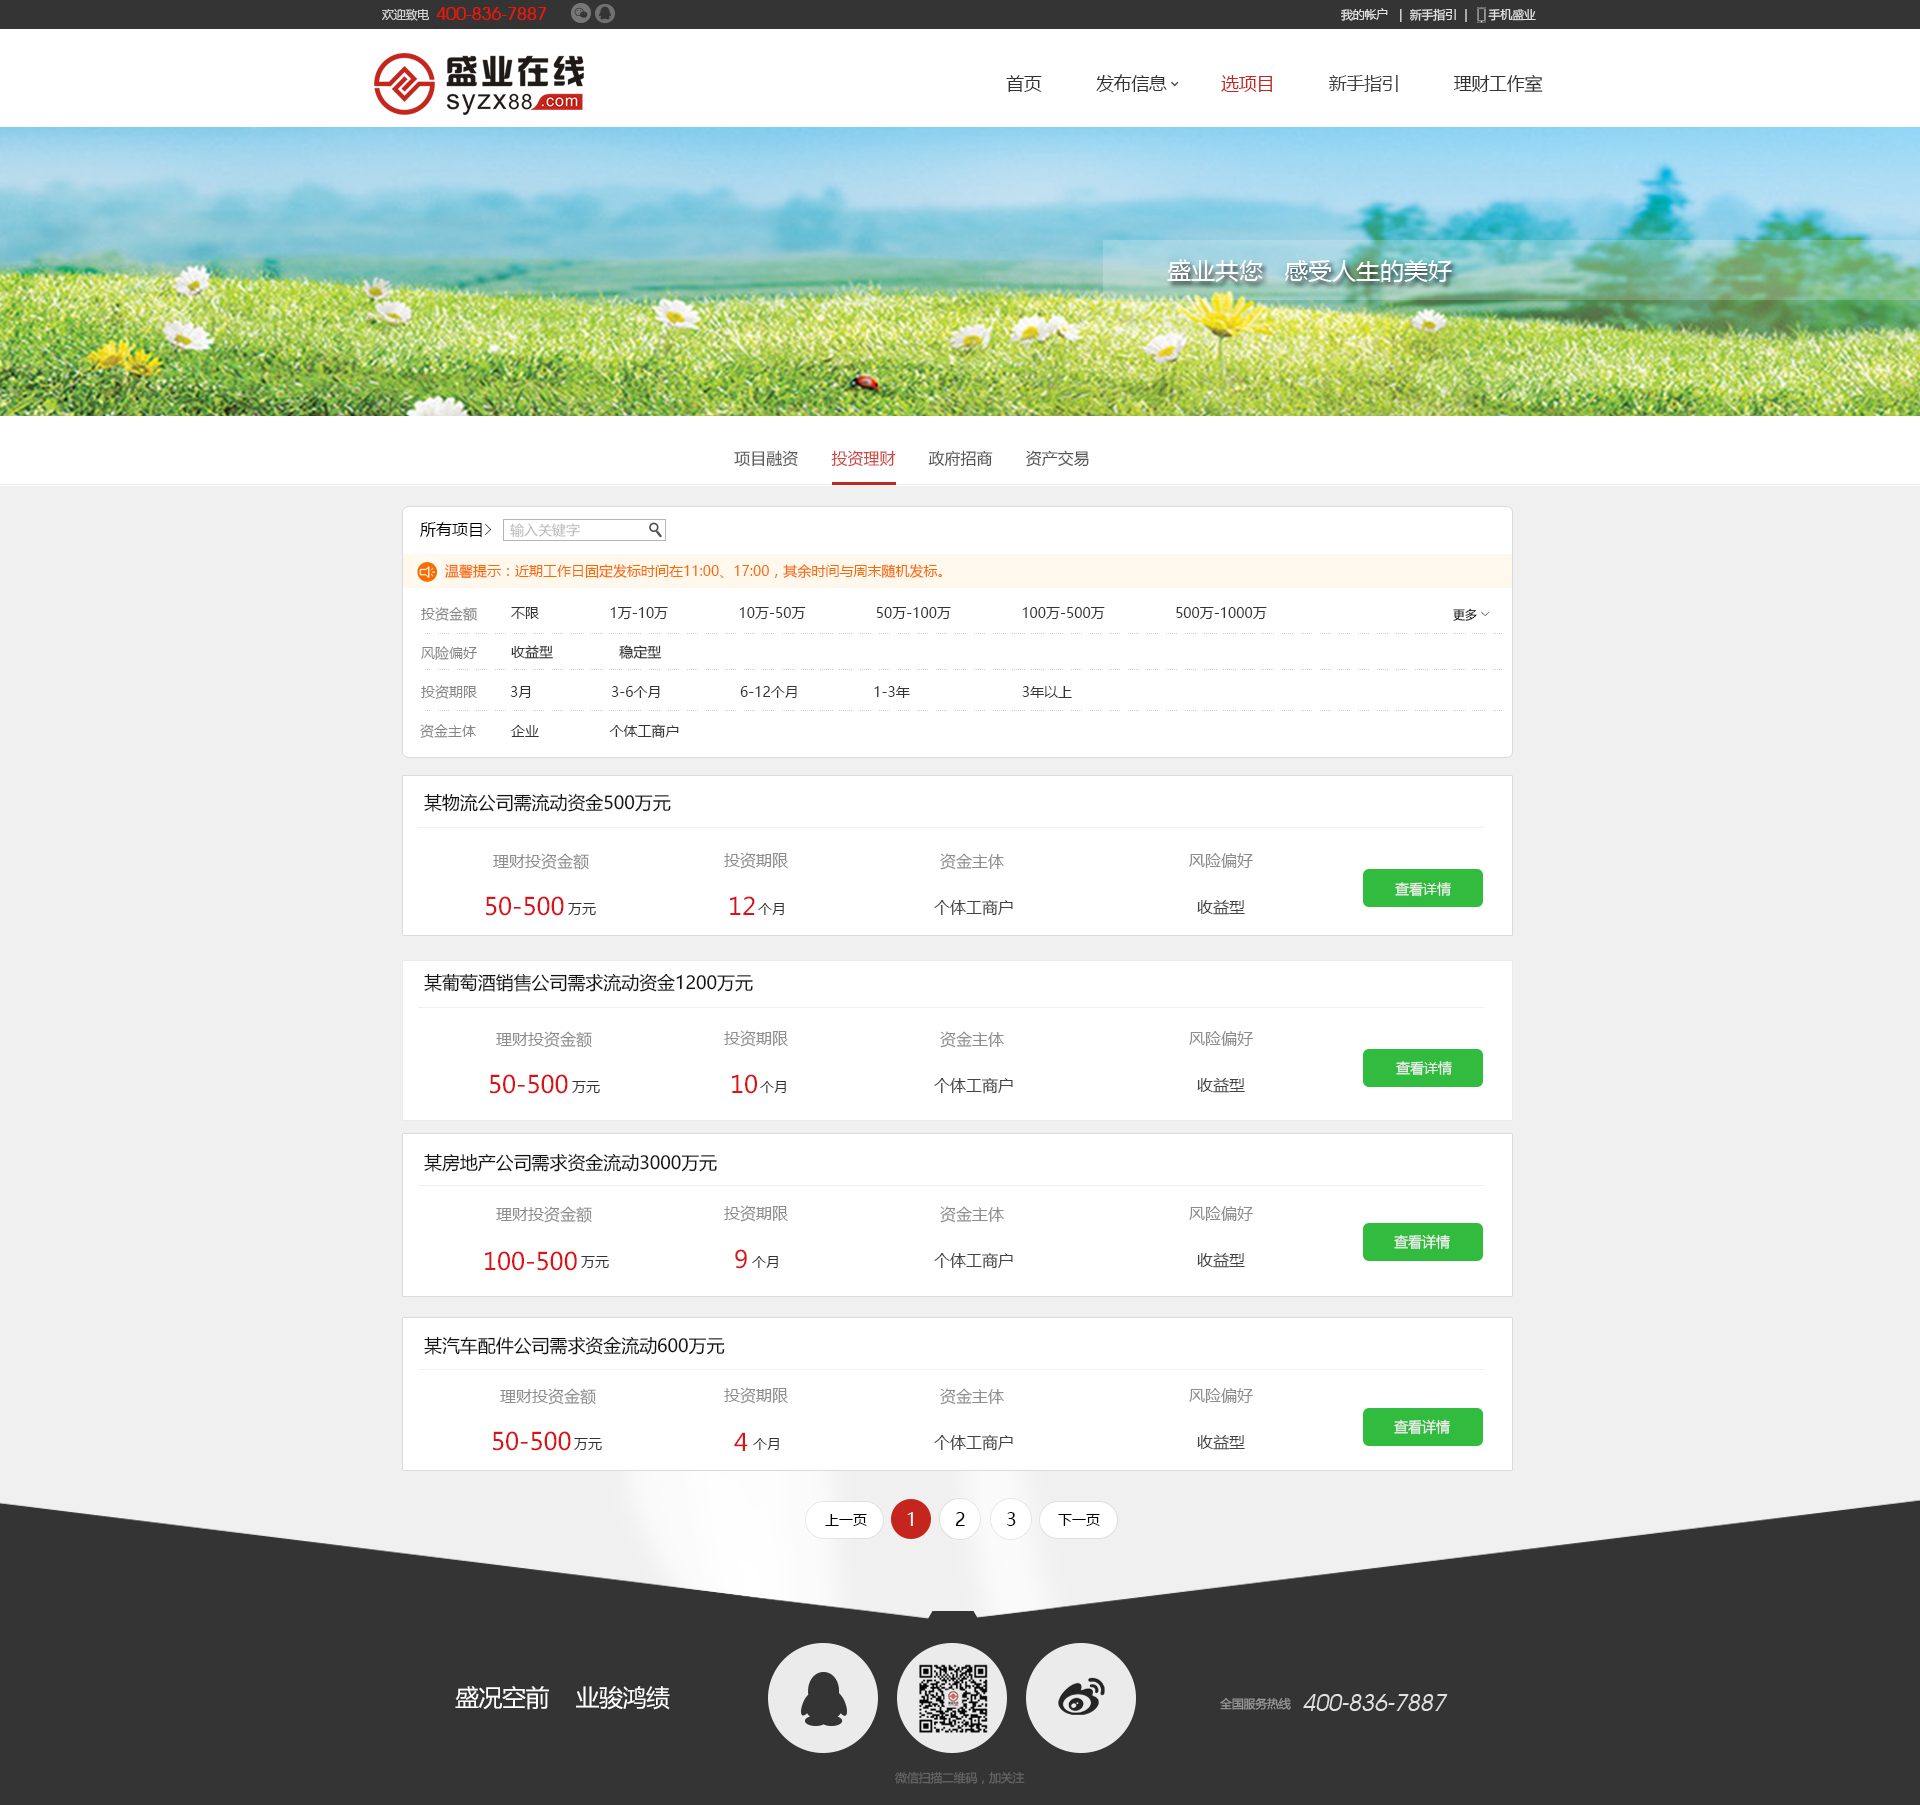
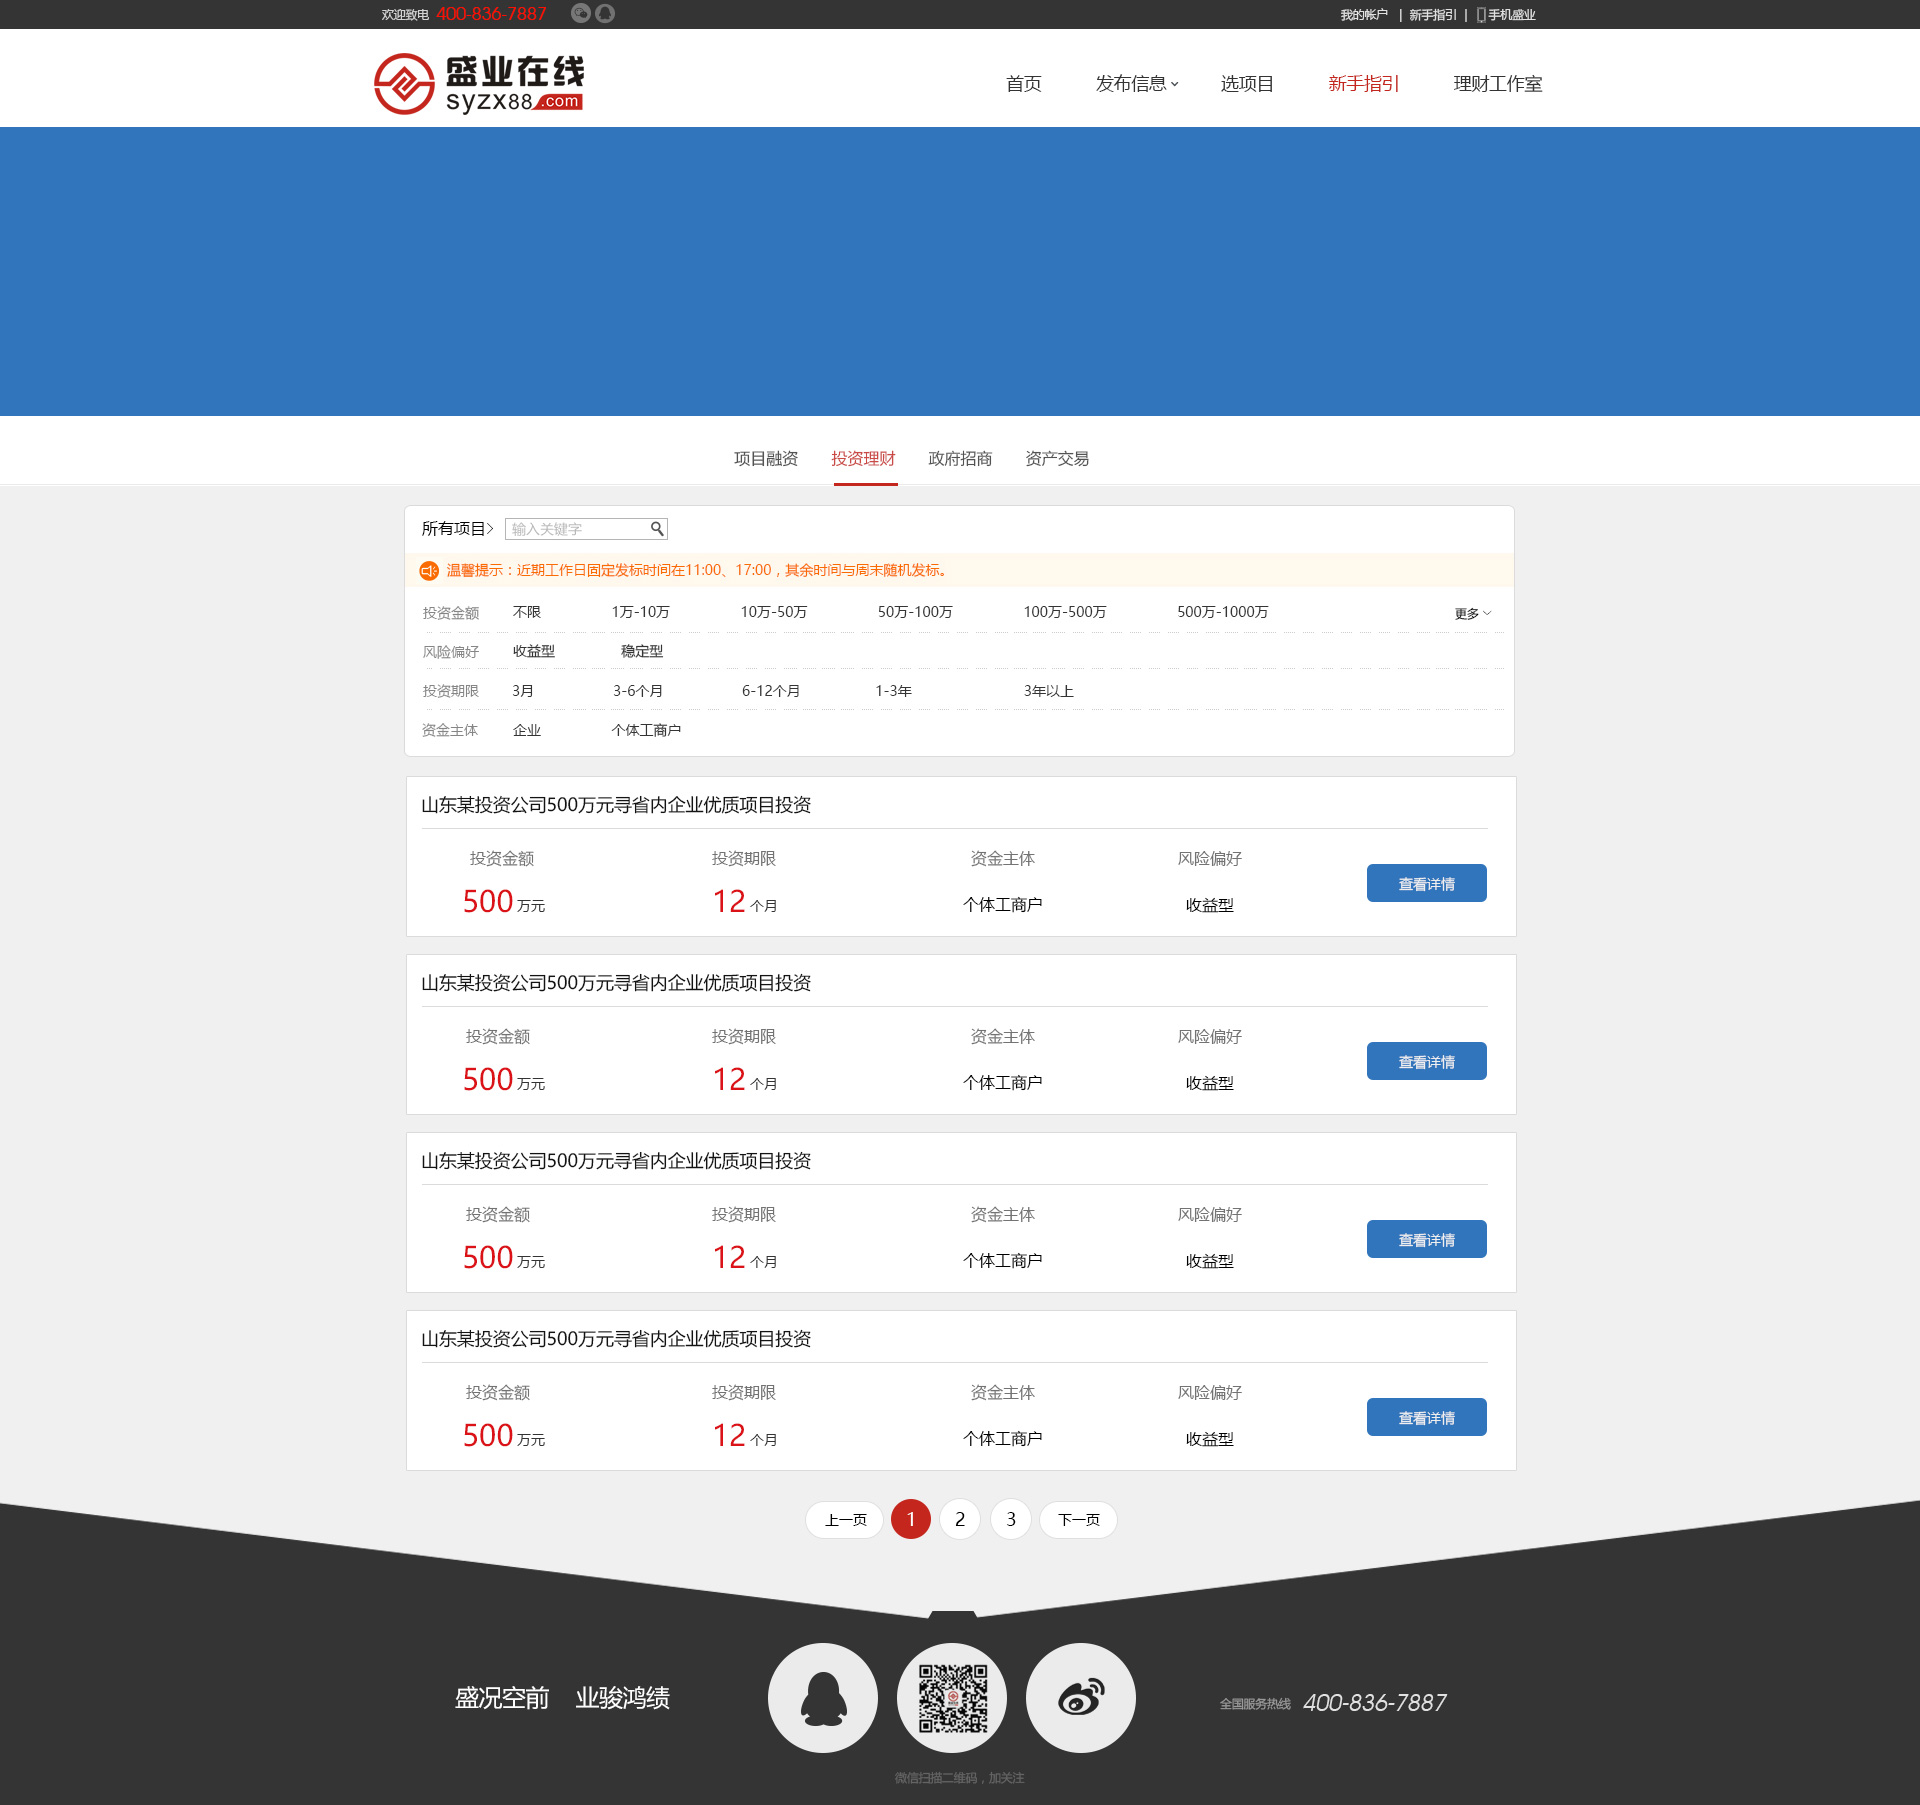
test

diff --git a/zcjyxq.html b/zcjyxq.html
@@ -7,9 +7,9 @@
 
 </style>
 <body bgcolor="#E2E2E2" leftmargin="0" topmargin="0" marginwidth="0" marginheight="0">
-<table width="100%" border="0" cellspacing="0" cellpadding="0" style="background:url(images/zcjyxq.jpg) no-repeat center center;">
+<table width="100%" border="0" cellspacing="0" cellpadding="0" style="background:url(images/zcjylistxx.jpg) no-repeat center center;">
   <tr>
-    <td width="100%" height="856">&nbsp;</td>
+    <td width="100%" height="1295">&nbsp;</td>
   </tr>
 </table>
 

diff --git a/zclist.html b/zclist.html
@@ -7,9 +7,9 @@
 
 </style>
 <body bgcolor="#E2E2E2" leftmargin="0" topmargin="0" marginwidth="0" marginheight="0">
-<table width="100%" border="0" cellspacing="0" cellpadding="0" style="background:url(images/zclist.jpg) no-repeat center center;">
+<table width="100%" border="0" cellspacing="0" cellpadding="0" style="background:url(images/zcjylist.jpg) no-repeat center center;">
   <tr>
-    <td width="100%" height="1805">&nbsp;</td>
+    <td width="100%" height="1773">&nbsp;</td>
   </tr>
 </table>
 

diff --git a/zfzsxq.html b/zfzsxq.html
@@ -7,9 +7,9 @@
 
 </style>
 <body bgcolor="#E2E2E2" leftmargin="0" topmargin="0" marginwidth="0" marginheight="0">
-<table width="100%" border="0" cellspacing="0" cellpadding="0" style="background:url(images/zfzsxq.jpg) no-repeat center center;">
+<table width="100%" border="0" cellspacing="0" cellpadding="0" style="background:url(images/zfzslxq.jpg) no-repeat center center;">
   <tr>
-    <td width="100%" height="827">&nbsp;</td>
+    <td width="100%" height="1362">&nbsp;</td>
   </tr>
 </table>
 

diff --git a/index.html b/index.html
@@ -80,7 +80,7 @@ body {
   <tr>
     <td height="40" align="center"><a href="news.html" target="_blank"></a></td>
     <td align="center"><a href="wdrzxq.html" target="_blank">融资详情</a></td>
-    <td align="center"><a href="zfzsxx.html" target="_blank">政府招商详情</a></td>
+    <td align="center"><a href="zfzsxq.html" target="_blank">政府招商详情</a></td>
     <td align="center"><a href="bzxx.html" target="_blank">帮助详细</a></td>
   </tr>
   <tr>

diff --git a/zfzslis.html b/zfzslis.html
@@ -7,7 +7,7 @@
 
 </style>
 <body bgcolor="#E2E2E2" leftmargin="0" topmargin="0" marginwidth="0" marginheight="0">
-<table width="100%" border="0" cellspacing="0" cellpadding="0" style="background:url(images/zlzslist.jpg) no-repeat center center;">
+<table width="100%" border="0" cellspacing="0" cellpadding="0" style="background:url(images/zfzslist.jpg) no-repeat center center;">
   <tr>
     <td width="100%" height="1805">&nbsp;</td>
   </tr>
